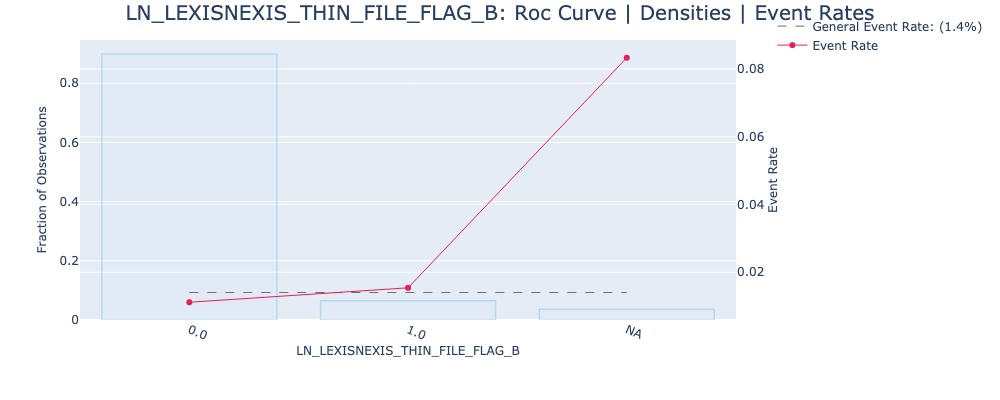
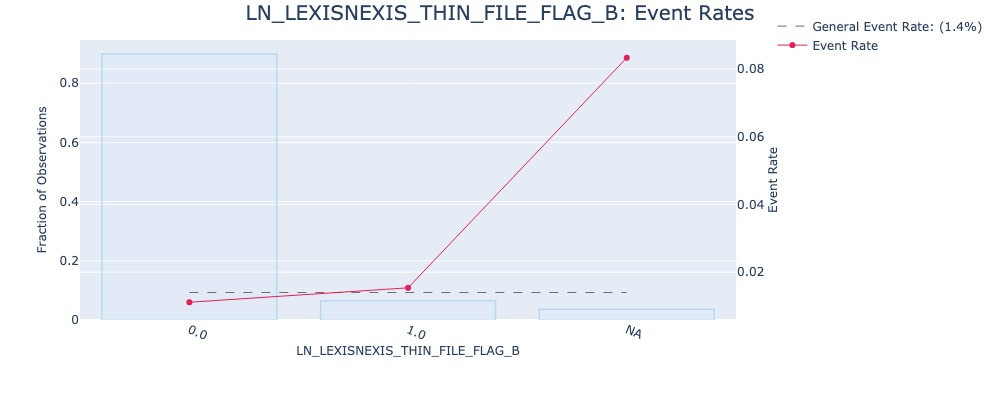
Plothandler supports custom titles | general commenting

Changed region(s): [[0.124, 0.0, 0.868, 0.06]]

diff --git a/plottah/plot_builder/builders.py b/plottah/plot_builder/builders.py
@@ -28,7 +28,10 @@ def build_univariate_plot(
 
     Returns
     """
+
+    # if feature type is categorical, standard plot is only event rate plot
     if feature_type == "categorical":
+        # create plot and do math
         event_plot = BinEventRatePlot(
             hoverinfo=hoverinfo,
             colors=colors,
@@ -38,13 +41,21 @@ def build_univariate_plot(
         )
         event_plot.do_math(df, feature_col, target)
 
+        # need different specs, user can override but not required
         specs = (
             [[{"colspan": 2, "secondary_y": True}, None]] if specs is None else specs
         )
 
-        plot = PlotHandler(feature_col, target, specs)
+        # set up handler and build only subplot
+        plot = PlotHandler(
+            feature_col=feature_col,
+            target_col=target,
+            specs=specs,
+            plot_title=f"{feature_col}: Event Rates",
+        )
         plot.build_subplot(event_plot, 1, 1)
     else:
+        # build all 3 subplots for general plot
         roc_plot = RocCurvePlot(hoverinfo=hoverinfo, colors=colors)
         dist_plot = DistPlot(hoverinfo=hoverinfo, colors=colors)
         event_plot = BinEventRatePlot(
@@ -55,6 +66,7 @@ def build_univariate_plot(
             feature_type=feature_type,
         )
 
+        # need different specs, user can override but not required
         specs = (
             [[{}, {}], [{"colspan": 2, "secondary_y": True}, None]]
             if specs is None
@@ -64,9 +76,16 @@ def build_univariate_plot(
         plot = PlotHandler(feature_col, target, specs)
         # set show fig to false, show explicitly below
         plot.build(
-            df, feature_col, target, roc_plot, dist_plot, event_plot, show_fig=False
+            df=df,
+            feature_col=feature_col,
+            target=target,
+            topleft=roc_plot,
+            topright=dist_plot,
+            bottom=event_plot,
+            show_fig=False,
         )
 
+    # show the plot if show_plot set to true
     if show_plot:
         plot.show()
 

diff --git a/plottah/plots/BinEventRatePlot.py b/plottah/plots/BinEventRatePlot.py
@@ -78,12 +78,13 @@ class StandardBinner:
         min_val, max_val = get_min_max_adj(df, feature_col)
         min_val_adj, max_val_adj = get_min_max_adj(df, feature_col)
 
+        # boolean checking if bins were provided
         provided_bins = bins is not None
 
         ## BINNING
         bins = (
             bins
-            if bins is not None
+            if provided_bins
             else get_bins(
                 df,
                 feature_col,
@@ -110,16 +111,17 @@ class StandardBinner:
             )
             bins[n_bins - 1] = max_val
 
+        # error if not all bins are smaller than the last bin after replacing last bin by max
         if (not all(i < bins[n_bins - 1] for i in bins[:-1])) & provided_bins:
             logging.warning(
                 f"For feature {feature_col} you provided custom bins, the largest bin is {bins[n_bins - 1]} but other bins provided by you are larger, and since bins must increase monotonically, this will lead to errors. Please revise the bins.Please revise the bins. Currently (after replacing smallest and largest bin by min/max): {bins}"
             )
 
+        # error if not all bins are larger than the first bin after replacing first bin by min
         if (not all(i > bins[0] for i in bins[1:])) & provided_bins:
             logging.warning(
                 f"For feature {feature_col} you provided custom bins, the smallest bin is {bins[0]} but other bins provided by you are smaller, and since bins must increase monotonically, this will lead to errors. Please revise the bins. Currently (after replacing smallest and largest bin by min/max): {bins}"
             )
-
         logging.info(f"using bins: {bins}")
 
         # update number of bins
@@ -194,7 +196,6 @@ class BinEventRatePlot(PlotProtocol):
         df: pd.DataFrame,
         feature_col: str,
         target_col: str,
-        fillna: bool = False,
         method: str = "quantile",
     ):
         """

diff --git a/plottah/plot_handler/PlotHandler.py b/plottah/plot_handler/PlotHandler.py
@@ -15,7 +15,9 @@ class PlotHandler:
     Args:
         feature_col: feature to analyze
         target_col: target column in dataframe
-        specs: figure layout
+        specs (Optional): figure layout
+        nan_count_specs (Optional):
+        plot_title (Optional): p
 
     """
 
@@ -24,7 +26,7 @@ class PlotHandler:
     specs: list = field(
         default_factory=lambda: [[{}, {}], [{"colspan": 2, "secondary_y": True}, None]]
     )
-    nan_count_specs: int = field(default_factory=lambda: 0)
+    plot_title: str = field(default_factory=lambda: None)
 
     def __post_init__(self):
         """
@@ -56,6 +58,13 @@ class PlotHandler:
         # make these in init later
         self.nrows = len(self.specs)
         self.ncols = len(self.specs[0])
+
+        # use default title if not provided
+        self.plot_title = (
+            f"{self.feature_col}: Roc Curve | Densities | Event Rates"
+            if self.plot_title is None
+            else self.plot_title
+        )
 
         counter = 1
         self.xrefs = [
@@ -101,7 +110,7 @@ class PlotHandler:
         self.fig.update_layout(
             showlegend=True,
             title=dict(
-                text=f"{self.feature_col}: Roc Curve | Densities | Event Rates",
+                text=self.plot_title,
                 font=dict(size=20),
             ),
             margin=dict(t=40),

diff --git a/plottah/plots/PlotProtocol.py b/plottah/plots/PlotProtocol.py
@@ -10,7 +10,7 @@ class PlotProtocol(Protocol):
 
     (Cohesion) Plot classes are responsible for:
 
-        (do_math)
+        (do_math: RUN BEFORE PLOTTING)
         - Accepting a dataframe, a feature and target column and doing all the math required to generate a plot.
           If a lot of code is required here, advice is to seperate out into _function_name functions
 
